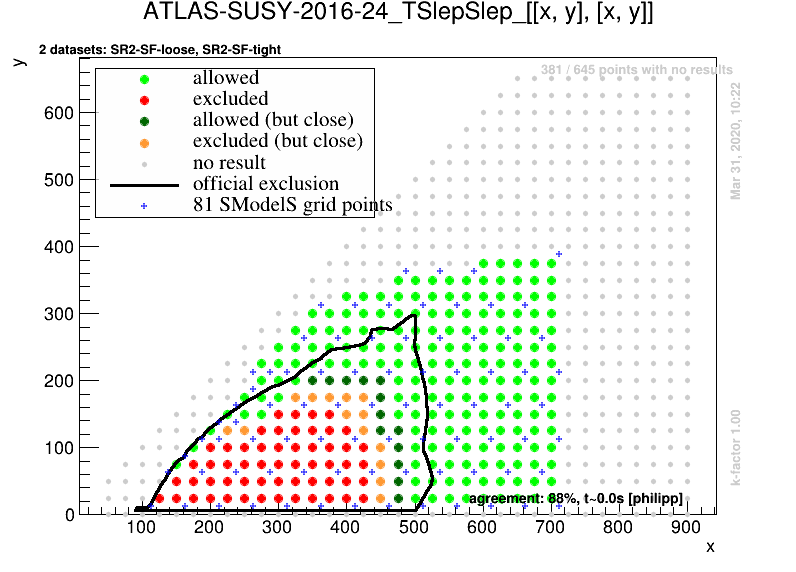
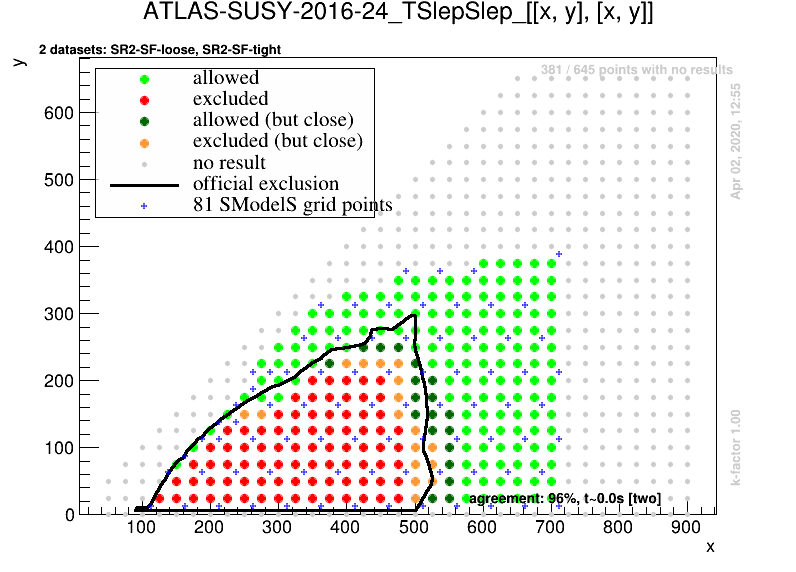
no more tbds

diff --git a/docs/ValidationUgly123new.md b/docs/ValidationUgly123new.md
@@ -93,10 +93,11 @@ To [official validation plots](Validation123new)
 | | [T2tt](SmsDictionary123new#T2tt)| 36.0| True |<a href="https://smodels.github.io/validation/123new/13TeV/ATLAS/ATLAS-SUSY-2016-16-eff/validation/T2tt_2EqMassAx_EqMassBy.png"><img src="https://smodels.github.io/validation/123new/13TeV/ATLAS/ATLAS-SUSY-2016-16-eff/validation/T2tt_2EqMassAx_EqMassBy.png" /></a>  | <img src="https://smodels.github.io/pics/new.png" /> in 1.2.3new! [comment](https://smodels.github.io/validation/123new/13TeV/ATLAS/ATLAS-SUSY-2016-16-eff/validation/T2tt.txt) <br>[SR plot](https://smodels.github.io/validation/123new/13TeV/ATLAS/ATLAS-SUSY-2016-16-eff/validation/bestSR_T2tt.png) |
 | | [T2ttoff](SmsDictionary123new#T2ttoff)| 36.0| True |<a href="https://smodels.github.io/validation/123new/13TeV/ATLAS/ATLAS-SUSY-2016-16-eff/validation/T2ttoff_2EqMassAx_EqMassBy.png"><img src="https://smodels.github.io/validation/123new/13TeV/ATLAS/ATLAS-SUSY-2016-16-eff/validation/T2ttoff_2EqMassAx_EqMassBy.png" /></a>  | <img src="https://smodels.github.io/pics/new.png" /> in 1.2.3new!  |
 | [ATLAS-SUSY-2016-24](https://atlas.web.cern.ch/Atlas/GROUPS/PHYSICS/PAPERS/SUSY-2016-24/)| [TChiChipmSlepSlep](SmsDictionary123new#TChiChipmSlepSlep)| 36.1| False |<a href="https://smodels.github.io/validation/123new/13TeV/ATLAS/ATLAS-SUSY-2016-24-eff/validation/TChiChipmSlepSlep_2EqMassAx_EqMassB0.5x+0.5y_EqMassCy.png"><img src="https://smodels.github.io/validation/123new/13TeV/ATLAS/ATLAS-SUSY-2016-24-eff/validation/TChiChipmSlepSlep_2EqMassAx_EqMassB0.5x+0.5y_EqMassCy.png" /></a>  | <img src="https://smodels.github.io/pics/new.png" /> in 1.2.3new!  |
-| | [TChiWZ](SmsDictionary123new#TChiWZ)| 36.1| tbd |<a href="https://smodels.github.io/validation/123new/13TeV/ATLAS/ATLAS-SUSY-2016-24-eff/validation/TChiWZ_2EqMassAx_EqMassBy.png"><img src="https://smodels.github.io/validation/123new/13TeV/ATLAS/ATLAS-SUSY-2016-24-eff/validation/TChiWZ_2EqMassAx_EqMassBy.png" /></a>  | <img src="https://smodels.github.io/pics/new.png" /> in 1.2.3new!  |
+| | [TChiWZ](SmsDictionary123new#TChiWZ)| 36.1| True |<a href="https://smodels.github.io/validation/123new/13TeV/ATLAS/ATLAS-SUSY-2016-24-eff/validation/TChiWZ_2EqMassAx_EqMassBy.png"><img src="https://smodels.github.io/validation/123new/13TeV/ATLAS/ATLAS-SUSY-2016-24-eff/validation/TChiWZ_2EqMassAx_EqMassBy.png" /></a>  | <img src="https://smodels.github.io/pics/new.png" /> in 1.2.3new!  |
 | | [TChipChimSlepSlep](SmsDictionary123new#TChipChimSlepSlep)| 36.1| False |<a href="https://smodels.github.io/validation/123new/13TeV/ATLAS/ATLAS-SUSY-2016-24-eff/validation/TChipChimSlepSlep_2EqMassAx_EqMassB0.5x+0.5y_EqMassCy.png"><img src="https://smodels.github.io/validation/123new/13TeV/ATLAS/ATLAS-SUSY-2016-24-eff/validation/TChipChimSlepSlep_2EqMassAx_EqMassB0.5x+0.5y_EqMassCy.png" /></a>  | <img src="https://smodels.github.io/pics/new.png" /> in 1.2.3new!  |
-| | [TSelSel](SmsDictionary123new#TSelSel)| 36.1| tbd |<a href="https://smodels.github.io/validation/123new/13TeV/ATLAS/ATLAS-SUSY-2016-24-eff/validation/TSelSel_2EqMassAx_EqMassBy.png"><img src="https://smodels.github.io/validation/123new/13TeV/ATLAS/ATLAS-SUSY-2016-24-eff/validation/TSelSel_2EqMassAx_EqMassBy.png" /></a>  | <img src="https://smodels.github.io/pics/new.png" /> in 1.2.3new!  |
-| | [TSmuSmu](SmsDictionary123new#TSmuSmu)| 36.1| tbd |<a href="https://smodels.github.io/validation/123new/13TeV/ATLAS/ATLAS-SUSY-2016-24-eff/validation/TSmuSmu_2EqMassAx_EqMassBy.png"><img src="https://smodels.github.io/validation/123new/13TeV/ATLAS/ATLAS-SUSY-2016-24-eff/validation/TSmuSmu_2EqMassAx_EqMassBy.png" /></a>  | <img src="https://smodels.github.io/pics/new.png" /> in 1.2.3new!  |
+| | [TSelSel](SmsDictionary123new#TSelSel)| 36.1| True |<a href="https://smodels.github.io/validation/123new/13TeV/ATLAS/ATLAS-SUSY-2016-24-eff/validation/TSelSel_2EqMassAx_EqMassBy.png"><img src="https://smodels.github.io/validation/123new/13TeV/ATLAS/ATLAS-SUSY-2016-24-eff/validation/TSelSel_2EqMassAx_EqMassBy.png" /></a>  | <img src="https://smodels.github.io/pics/new.png" /> in 1.2.3new!  |
+| | [TSlepSlep](SmsDictionary123new#TSlepSlep)| 36.1| True |<a href="https://smodels.github.io/validation/123new/13TeV/ATLAS/ATLAS-SUSY-2016-24-eff/validation/TSlepSlep_2EqMassAx_EqMassBy.png"><img src="https://smodels.github.io/validation/123new/13TeV/ATLAS/ATLAS-SUSY-2016-24-eff/validation/TSlepSlep_2EqMassAx_EqMassBy.png" /></a>  | <img src="https://smodels.github.io/pics/new.png" /> in 1.2.3new!  |
+| | [TSmuSmu](SmsDictionary123new#TSmuSmu)| 36.1| True |<a href="https://smodels.github.io/validation/123new/13TeV/ATLAS/ATLAS-SUSY-2016-24-eff/validation/TSmuSmu_2EqMassAx_EqMassBy.png"><img src="https://smodels.github.io/validation/123new/13TeV/ATLAS/ATLAS-SUSY-2016-24-eff/validation/TSmuSmu_2EqMassAx_EqMassBy.png" /></a>  | <img src="https://smodels.github.io/pics/new.png" /> in 1.2.3new!  |
 | [ATLAS-SUSY-2016-27](https://atlas.web.cern.ch/Atlas/GROUPS/PHYSICS/PAPERS/SUSY-2016-27/)| [T5Zg](SmsDictionary123new#T5Zg)| 36.1| False |<a href="https://smodels.github.io/validation/123new/13TeV/ATLAS/ATLAS-SUSY-2016-27-eff/validation/T5Zg_2EqMassAx_EqMassBy_EqMassC1.0.png"><img src="https://smodels.github.io/validation/123new/13TeV/ATLAS/ATLAS-SUSY-2016-27-eff/validation/T5Zg_2EqMassAx_EqMassBy_EqMassC1.0.png" /></a>  | <img src="https://smodels.github.io/pics/new.png" /> in 1.2.3new!  |
 | | [T5gg](SmsDictionary123new#T5gg)| 36.1| True |<a href="https://smodels.github.io/validation/123new/13TeV/ATLAS/ATLAS-SUSY-2016-27-eff/validation/T5gg_2EqMassAx_EqMassBy_EqMassC1.0.png"><img src="https://smodels.github.io/validation/123new/13TeV/ATLAS/ATLAS-SUSY-2016-27-eff/validation/T5gg_2EqMassAx_EqMassBy_EqMassC1.0.png" /></a>  | <img src="https://smodels.github.io/pics/new.png" /> in 1.2.3new!  |
 | | [T6gg](SmsDictionary123new#T6gg)| 36.1| True |<a href="https://smodels.github.io/validation/123new/13TeV/ATLAS/ATLAS-SUSY-2016-27-eff/validation/T6gg_2EqMassAx_EqMassBy_EqMassC1.0.png"><img src="https://smodels.github.io/validation/123new/13TeV/ATLAS/ATLAS-SUSY-2016-27-eff/validation/T6gg_2EqMassAx_EqMassBy_EqMassC1.0.png" /></a>  | <img src="https://smodels.github.io/pics/new.png" /> in 1.2.3new!  |
@@ -165,4 +166,4 @@ To [official validation plots](Validation123new)
 | | [T5GQ](SmsDictionary123new#T5GQ)| 35.9| n/a |<a href="https://smodels.github.io/validation/123new/13TeV/CMS/CMS-SUS-16-033-eff/validation/T5GQ_EqMassAx_EqMassBy_EqMassC0.0__EqmassAy_EqmassB0.0.png"><img src="https://smodels.github.io/validation/123new/13TeV/CMS/CMS-SUS-16-033-eff/validation/T5GQ_EqMassAx_EqMassBy_EqMassC0.0__EqmassAy_EqmassB0.0.png" /></a><BR><a href="https://smodels.github.io/validation/123new/13TeV/CMS/CMS-SUS-16-033-eff/validation/T5GQ_EqMassAx_EqMassBy_EqMassC695.0__EqmassAy_EqmassB695.0.png"><img src="https://smodels.github.io/validation/123new/13TeV/CMS/CMS-SUS-16-033-eff/validation/T5GQ_EqMassAx_EqMassBy_EqMassC695.0__EqmassAy_EqmassB695.0.png" /></a><BR><a href="https://smodels.github.io/validation/123new/13TeV/CMS/CMS-SUS-16-033-eff/validation/T5GQ_EqMassAx_EqMassBy_EqMassC995.0__EqmassAy_EqmassB995.0.png"><img src="https://smodels.github.io/validation/123new/13TeV/CMS/CMS-SUS-16-033-eff/validation/T5GQ_EqMassAx_EqMassBy_EqMassC995.0__EqmassAy_EqmassB995.0.png" /></a>  | <img src="https://smodels.github.io/pics/new.png" /> in 1.2.3new!  |
 | | [TGQ](SmsDictionary123new#TGQ)| 35.9| n/a |<a href="https://smodels.github.io/validation/123new/13TeV/CMS/CMS-SUS-16-033-eff/validation/TGQ_EqMassAx_EqMassB0.0__EqmassAy_EqmassB0.0.png"><img src="https://smodels.github.io/validation/123new/13TeV/CMS/CMS-SUS-16-033-eff/validation/TGQ_EqMassAx_EqMassB0.0__EqmassAy_EqmassB0.0.png" /></a><BR><a href="https://smodels.github.io/validation/123new/13TeV/CMS/CMS-SUS-16-033-eff/validation/TGQ_EqMassAx_EqMassB695.0__EqmassAy_EqmassB695.0.png"><img src="https://smodels.github.io/validation/123new/13TeV/CMS/CMS-SUS-16-033-eff/validation/TGQ_EqMassAx_EqMassB695.0__EqmassAy_EqmassB695.0.png" /></a><BR><a href="https://smodels.github.io/validation/123new/13TeV/CMS/CMS-SUS-16-033-eff/validation/TGQ_EqMassAx_EqMassB995.0__EqmassAy_EqmassB995.0.png"><img src="https://smodels.github.io/validation/123new/13TeV/CMS/CMS-SUS-16-033-eff/validation/TGQ_EqMassAx_EqMassB995.0__EqmassAy_EqmassB995.0.png" /></a>  | <img src="https://smodels.github.io/pics/new.png" /> in 1.2.3new!  |
 
-This page was created Wed Apr  1 20:51:02 2020
+This page was created Thu Apr  2 13:13:56 2020

diff --git a/docs/Validation123new.md b/docs/Validation123new.md
@@ -93,6 +93,7 @@ The validation procedure for upper limit maps used here is explained in [arXiv:1
 | | [TChiWZ](SmsDictionary123new#TChiWZ)| 36.1|<a href="https://smodels.github.io/validation/123new/13TeV/ATLAS/ATLAS-SUSY-2016-24-eff/validation/TChiWZ_2EqMassAx_EqMassBy_pretty.png"><img src="https://smodels.github.io/validation/123new/13TeV/ATLAS/ATLAS-SUSY-2016-24-eff/validation/TChiWZ_2EqMassAx_EqMassBy_pretty.png" /></a>  | <img src="https://smodels.github.io/pics/new.png" /> in 1.2.3new!  |
 | | [TChipChimSlepSlep](SmsDictionary123new#TChipChimSlepSlep)| 36.1|<a href="https://smodels.github.io/validation/123new/13TeV/ATLAS/ATLAS-SUSY-2016-24-eff/validation/TChipChimSlepSlep_2EqMassAx_EqMassB0.5x+0.5y_EqMassCy_pretty.png"><img src="https://smodels.github.io/validation/123new/13TeV/ATLAS/ATLAS-SUSY-2016-24-eff/validation/TChipChimSlepSlep_2EqMassAx_EqMassB0.5x+0.5y_EqMassCy_pretty.png" /></a>  | <img src="https://smodels.github.io/pics/new.png" /> in 1.2.3new!  |
 | | [TSelSel](SmsDictionary123new#TSelSel)| 36.1|<a href="https://smodels.github.io/validation/123new/13TeV/ATLAS/ATLAS-SUSY-2016-24-eff/validation/TSelSel_2EqMassAx_EqMassBy_pretty.png"><img src="https://smodels.github.io/validation/123new/13TeV/ATLAS/ATLAS-SUSY-2016-24-eff/validation/TSelSel_2EqMassAx_EqMassBy_pretty.png" /></a>  | <img src="https://smodels.github.io/pics/new.png" /> in 1.2.3new!  |
+| | [TSlepSlep](SmsDictionary123new#TSlepSlep)| 36.1|<a href="https://smodels.github.io/validation/123new/13TeV/ATLAS/ATLAS-SUSY-2016-24-eff/validation/TSlepSlep_2EqMassAx_EqMassBy_pretty.png"><img src="https://smodels.github.io/validation/123new/13TeV/ATLAS/ATLAS-SUSY-2016-24-eff/validation/TSlepSlep_2EqMassAx_EqMassBy_pretty.png" /></a>  | <img src="https://smodels.github.io/pics/new.png" /> in 1.2.3new!  |
 | | [TSmuSmu](SmsDictionary123new#TSmuSmu)| 36.1|<a href="https://smodels.github.io/validation/123new/13TeV/ATLAS/ATLAS-SUSY-2016-24-eff/validation/TSmuSmu_2EqMassAx_EqMassBy_pretty.png"><img src="https://smodels.github.io/validation/123new/13TeV/ATLAS/ATLAS-SUSY-2016-24-eff/validation/TSmuSmu_2EqMassAx_EqMassBy_pretty.png" /></a>  | <img src="https://smodels.github.io/pics/new.png" /> in 1.2.3new!  |
 | [ATLAS-SUSY-2016-27](https://atlas.web.cern.ch/Atlas/GROUPS/PHYSICS/PAPERS/SUSY-2016-27/)| [T5Zg](SmsDictionary123new#T5Zg)| 36.1|<a href="https://smodels.github.io/validation/123new/13TeV/ATLAS/ATLAS-SUSY-2016-27-eff/validation/T5Zg_2EqMassAx_EqMassBy_EqMassC1.0_pretty.png"><img src="https://smodels.github.io/validation/123new/13TeV/ATLAS/ATLAS-SUSY-2016-27-eff/validation/T5Zg_2EqMassAx_EqMassBy_EqMassC1.0_pretty.png" /></a>  | <img src="https://smodels.github.io/pics/new.png" /> in 1.2.3new!  |
 | | [T5gg](SmsDictionary123new#T5gg)| 36.1|<a href="https://smodels.github.io/validation/123new/13TeV/ATLAS/ATLAS-SUSY-2016-27-eff/validation/T5gg_2EqMassAx_EqMassBy_EqMassC1.0_pretty.png"><img src="https://smodels.github.io/validation/123new/13TeV/ATLAS/ATLAS-SUSY-2016-27-eff/validation/T5gg_2EqMassAx_EqMassBy_EqMassC1.0_pretty.png" /></a>  | <img src="https://smodels.github.io/pics/new.png" /> in 1.2.3new!  |
@@ -162,4 +163,4 @@ The validation procedure for upper limit maps used here is explained in [arXiv:1
 | | [T5GQ](SmsDictionary123new#T5GQ)| 35.9|<a href="https://smodels.github.io/validation/123new/13TeV/CMS/CMS-SUS-16-033-eff/validation/T5GQ_EqMassAx_EqMassBy_EqMassC0.0__EqmassAy_EqmassB0.0_pretty.png"><img src="https://smodels.github.io/validation/123new/13TeV/CMS/CMS-SUS-16-033-eff/validation/T5GQ_EqMassAx_EqMassBy_EqMassC0.0__EqmassAy_EqmassB0.0_pretty.png" /></a><BR><a href="https://smodels.github.io/validation/123new/13TeV/CMS/CMS-SUS-16-033-eff/validation/T5GQ_EqMassAx_EqMassBy_EqMassC695.0__EqmassAy_EqmassB695.0_pretty.png"><img src="https://smodels.github.io/validation/123new/13TeV/CMS/CMS-SUS-16-033-eff/validation/T5GQ_EqMassAx_EqMassBy_EqMassC695.0__EqmassAy_EqmassB695.0_pretty.png" /></a><BR><a href="https://smodels.github.io/validation/123new/13TeV/CMS/CMS-SUS-16-033-eff/validation/T5GQ_EqMassAx_EqMassBy_EqMassC695.0__EqmassAy_EqmassB695_pretty.png"><img src="https://smodels.github.io/validation/123new/13TeV/CMS/CMS-SUS-16-033-eff/validation/T5GQ_EqMassAx_EqMassBy_EqMassC695.0__EqmassAy_EqmassB695_pretty.png" /></a><BR><a href="https://smodels.github.io/validation/123new/13TeV/CMS/CMS-SUS-16-033-eff/validation/T5GQ_EqMassAx_EqMassBy_EqMassC995.0__EqmassAy_EqmassB995.0_pretty.png"><img src="https://smodels.github.io/validation/123new/13TeV/CMS/CMS-SUS-16-033-eff/validation/T5GQ_EqMassAx_EqMassBy_EqMassC995.0__EqmassAy_EqmassB995.0_pretty.png" /></a>  | <img src="https://smodels.github.io/pics/new.png" /> in 1.2.3new!  |
 | | [TGQ](SmsDictionary123new#TGQ)| 35.9|<a href="https://smodels.github.io/validation/123new/13TeV/CMS/CMS-SUS-16-033-eff/validation/TGQ_EqMassAx_EqMassB0.0__EqmassAy_EqmassB0.0_pretty.png"><img src="https://smodels.github.io/validation/123new/13TeV/CMS/CMS-SUS-16-033-eff/validation/TGQ_EqMassAx_EqMassB0.0__EqmassAy_EqmassB0.0_pretty.png" /></a><BR><a href="https://smodels.github.io/validation/123new/13TeV/CMS/CMS-SUS-16-033-eff/validation/TGQ_EqMassAx_EqMassB695.0__EqmassAy_EqmassB695.0_pretty.png"><img src="https://smodels.github.io/validation/123new/13TeV/CMS/CMS-SUS-16-033-eff/validation/TGQ_EqMassAx_EqMassB695.0__EqmassAy_EqmassB695.0_pretty.png" /></a><BR><a href="https://smodels.github.io/validation/123new/13TeV/CMS/CMS-SUS-16-033-eff/validation/TGQ_EqMassAx_EqMassB995.0__EqmassAy_EqmassB995.0_pretty.png"><img src="https://smodels.github.io/validation/123new/13TeV/CMS/CMS-SUS-16-033-eff/validation/TGQ_EqMassAx_EqMassB995.0__EqmassAy_EqmassB995.0_pretty.png" /></a>  | <img src="https://smodels.github.io/pics/new.png" /> in 1.2.3new!  |
 
-This page was created Wed Apr  1 20:47:43 2020
+This page was created Thu Apr  2 13:10:25 2020

diff --git a/docs/SmsDictionary123new.md b/docs/SmsDictionary123new.md
@@ -11,10 +11,10 @@ There is also a [ListOfAnalyses123new](https://smodels.github.io/docs/ListOfAnal
 | 1 | <a name="T1"></a>**T1**<br> | `[[[q,q]],[[q,q]]]`<BR>`(MET,MET)` | <img alt="T1" src="../feyn/straight/T1.png" height="130"> | [ATLAS-SUSY-2016-07](ListOfAnalyses123new#ATLAS-SUSY-2016-07)<BR>[CMS-SUS-16-033](ListOfAnalyses123new#CMS-SUS-16-033)<BR>[CMS-SUS-19-006](ListOfAnalyses123new#CMS-SUS-19-006)|
 | 2 | <a name="T1bbbb"></a>**T1bbbb**<br> | `[[[b,b]],[[b,b]]]`<BR>`(MET,MET)` | <img alt="T1bbbb" src="../feyn/straight/T1bbbb.png" height="130"> | [CMS-SUS-16-033](ListOfAnalyses123new#CMS-SUS-16-033)<BR>[CMS-SUS-19-006](ListOfAnalyses123new#CMS-SUS-19-006)|
 | 3 | <a name="T1tttt"></a>**T1tttt**<br> | `[[[t,t]],[[t,t]]]`<BR>`(MET,MET)` | <img alt="T1tttt" src="../feyn/straight/T1tttt.png" height="130"> | [CMS-SUS-16-009](ListOfAnalyses123new#CMS-SUS-16-009)<BR>[CMS-SUS-16-033](ListOfAnalyses123new#CMS-SUS-16-033)<BR>[CMS-SUS-19-006](ListOfAnalyses123new#CMS-SUS-19-006)|
-| 4 | <a name="T1ttttoff"></a>**T1ttttoff**<br> | `[[[b,W,b,W]],[[b,W,b,W]]]`<BR>`(MET,MET);`<BR>`[[[b,b,W,W]],[[b,b,W,W]]]`<BR>`(MET,MET)` | <img alt="T1ttttoff" src="../feyn/straight/T1ttttoff.png" height="130"> | [CMS-SUS-16-009](ListOfAnalyses123new#CMS-SUS-16-009)<BR>[CMS-SUS-16-033](ListOfAnalyses123new#CMS-SUS-16-033)<BR>[CMS-SUS-19-006](ListOfAnalyses123new#CMS-SUS-19-006)|
+| 4 | <a name="T1ttttoff"></a>**T1ttttoff**<br> | `[[[b,b,W,W]],[[b,b,W,W]]]`<BR>`(MET,MET);`<BR>`[[[b,W,b,W]],[[b,W,b,W]]]`<BR>`(MET,MET)` | <img alt="T1ttttoff" src="../feyn/straight/T1ttttoff.png" height="130"> | [CMS-SUS-16-009](ListOfAnalyses123new#CMS-SUS-16-009)<BR>[CMS-SUS-16-033](ListOfAnalyses123new#CMS-SUS-16-033)<BR>[CMS-SUS-19-006](ListOfAnalyses123new#CMS-SUS-19-006)|
 | 5 | <a name="T2"></a>**T2**<br> | `[[[q]],[[q]]]`<BR>`(MET,MET)` | <img alt="T2" src="../feyn/straight/T2.png" height="130"> | [ATLAS-SUSY-2016-07](ListOfAnalyses123new#ATLAS-SUSY-2016-07)<BR>[CMS-SUS-16-033](ListOfAnalyses123new#CMS-SUS-16-033)<BR>[CMS-SUS-19-006](ListOfAnalyses123new#CMS-SUS-19-006)|
 | 6 | <a name="T2bb"></a>**T2bb**<br> | `[[[b]],[[b]]]`<BR>`(MET,MET)` | <img alt="T2bb" src="../feyn/straight/T2bb.png" height="130"> | [ATLAS-SUSY-2016-15](ListOfAnalyses123new#ATLAS-SUSY-2016-15)<BR>[ATLAS-SUSY-2016-28](ListOfAnalyses123new#ATLAS-SUSY-2016-28)<BR>[CMS-SUS-16-033](ListOfAnalyses123new#CMS-SUS-16-033)<BR>[CMS-SUS-19-006](ListOfAnalyses123new#CMS-SUS-19-006)|
-| 7 | <a name="T2bbffff"></a>**T2bbffff**<br> | `[[[b,l,nu]],[[b,q,q]]]`<BR>`(MET,MET);`<BR>`[[[b,l,nu]],[[b,q,q]]]`<BR>`(MET,MET);`<BR>`[[[b,q,q]],[[b,q,q]]]`<BR>`(MET,MET);`<BR>`[[[b,l,nu]],[[b,q,q]]]`<BR>`(MET,MET)` | <img alt="T2bbffff" src="../feyn/straight/T2bbffff.png" height="130"> | [ATLAS-SUSY-2016-15](ListOfAnalyses123new#ATLAS-SUSY-2016-15)<BR>[ATLAS-SUSY-2016-16](ListOfAnalyses123new#ATLAS-SUSY-2016-16)<BR>[CMS-SUS-17-005](ListOfAnalyses123new#CMS-SUS-17-005)|
+| 7 | <a name="T2bbffff"></a>**T2bbffff**<br> | `[[[b,l,nu]],[[b,q,q]]]`<BR>`(MET,MET);`<BR>`[[[b,l,nu]],[[b,q,q]]]`<BR>`(MET,MET);`<BR>`[[[b,l,nu]],[[b,q,q]]]`<BR>`(MET,MET);`<BR>`[[[b,q,q]],[[b,q,q]]]`<BR>`(MET,MET)` | <img alt="T2bbffff" src="../feyn/straight/T2bbffff.png" height="130"> | [ATLAS-SUSY-2016-15](ListOfAnalyses123new#ATLAS-SUSY-2016-15)<BR>[ATLAS-SUSY-2016-16](ListOfAnalyses123new#ATLAS-SUSY-2016-16)<BR>[CMS-SUS-17-005](ListOfAnalyses123new#CMS-SUS-17-005)|
 | 8 | <a name="T2tt"></a>**T2tt**<br> | `[[[t]],[[t]]]`<BR>`(MET,MET)` | <img alt="T2tt" src="../feyn/straight/T2tt.png" height="130"> | [ATLAS-SUSY-2016-15](ListOfAnalyses123new#ATLAS-SUSY-2016-15)<BR>[ATLAS-SUSY-2016-16](ListOfAnalyses123new#ATLAS-SUSY-2016-16)<BR>[CMS-SUS-16-009](ListOfAnalyses123new#CMS-SUS-16-009)<BR>[CMS-SUS-16-033](ListOfAnalyses123new#CMS-SUS-16-033)<BR>[CMS-SUS-17-010](ListOfAnalyses123new#CMS-SUS-17-010)<BR>[CMS-SUS-19-006](ListOfAnalyses123new#CMS-SUS-19-006)|
 | 9 | <a name="T2ttoff"></a>**T2ttoff**<br> | `[[[b,W]],[[b,W]]]`<BR>`(MET,MET);`<BR>`[[[b,W]],[[b,W]]]`<BR>`(MET,MET);`<BR>`[[[W,b]],[[W,b]]]`<BR>`(MET,MET)` | <img alt="T2ttoff" src="../feyn/straight/T2ttoff.png" height="130"> | [ATLAS-SUSY-2016-15](ListOfAnalyses123new#ATLAS-SUSY-2016-15)<BR>[ATLAS-SUSY-2016-16](ListOfAnalyses123new#ATLAS-SUSY-2016-16)<BR>[CMS-SUS-16-009](ListOfAnalyses123new#CMS-SUS-16-009)<BR>[CMS-SUS-16-033](ListOfAnalyses123new#CMS-SUS-16-033)<BR>[CMS-SUS-17-010](ListOfAnalyses123new#CMS-SUS-17-010)<BR>[CMS-SUS-19-006](ListOfAnalyses123new#CMS-SUS-19-006)|
 | 10 | <a name="T3GQ"></a>**T3GQ**<br> | `[[[q]],[[q],[q]]]`<BR>`(MET,MET)` | <img alt="T3GQ" src="../feyn/straight/T3GQ.png" height="130"> | [ATLAS-SUSY-2016-07](ListOfAnalyses123new#ATLAS-SUSY-2016-07)<BR>[CMS-SUS-16-033](ListOfAnalyses123new#CMS-SUS-16-033)|
